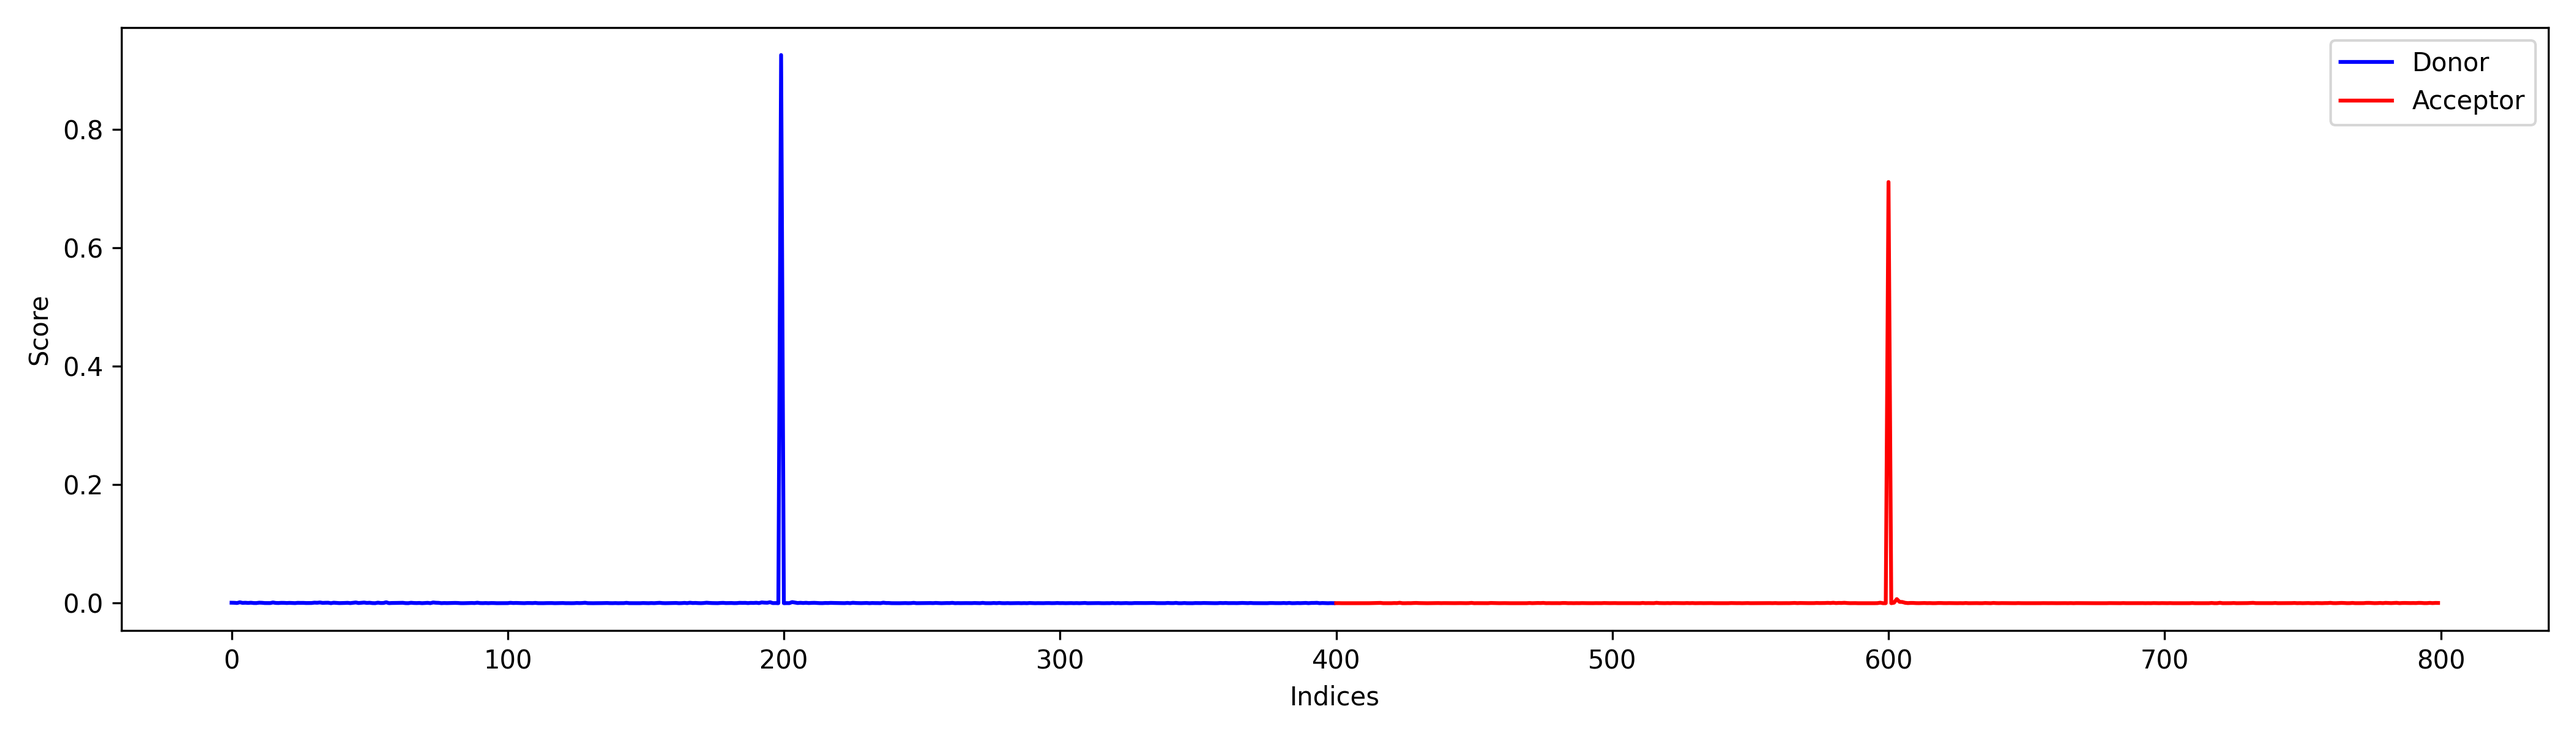
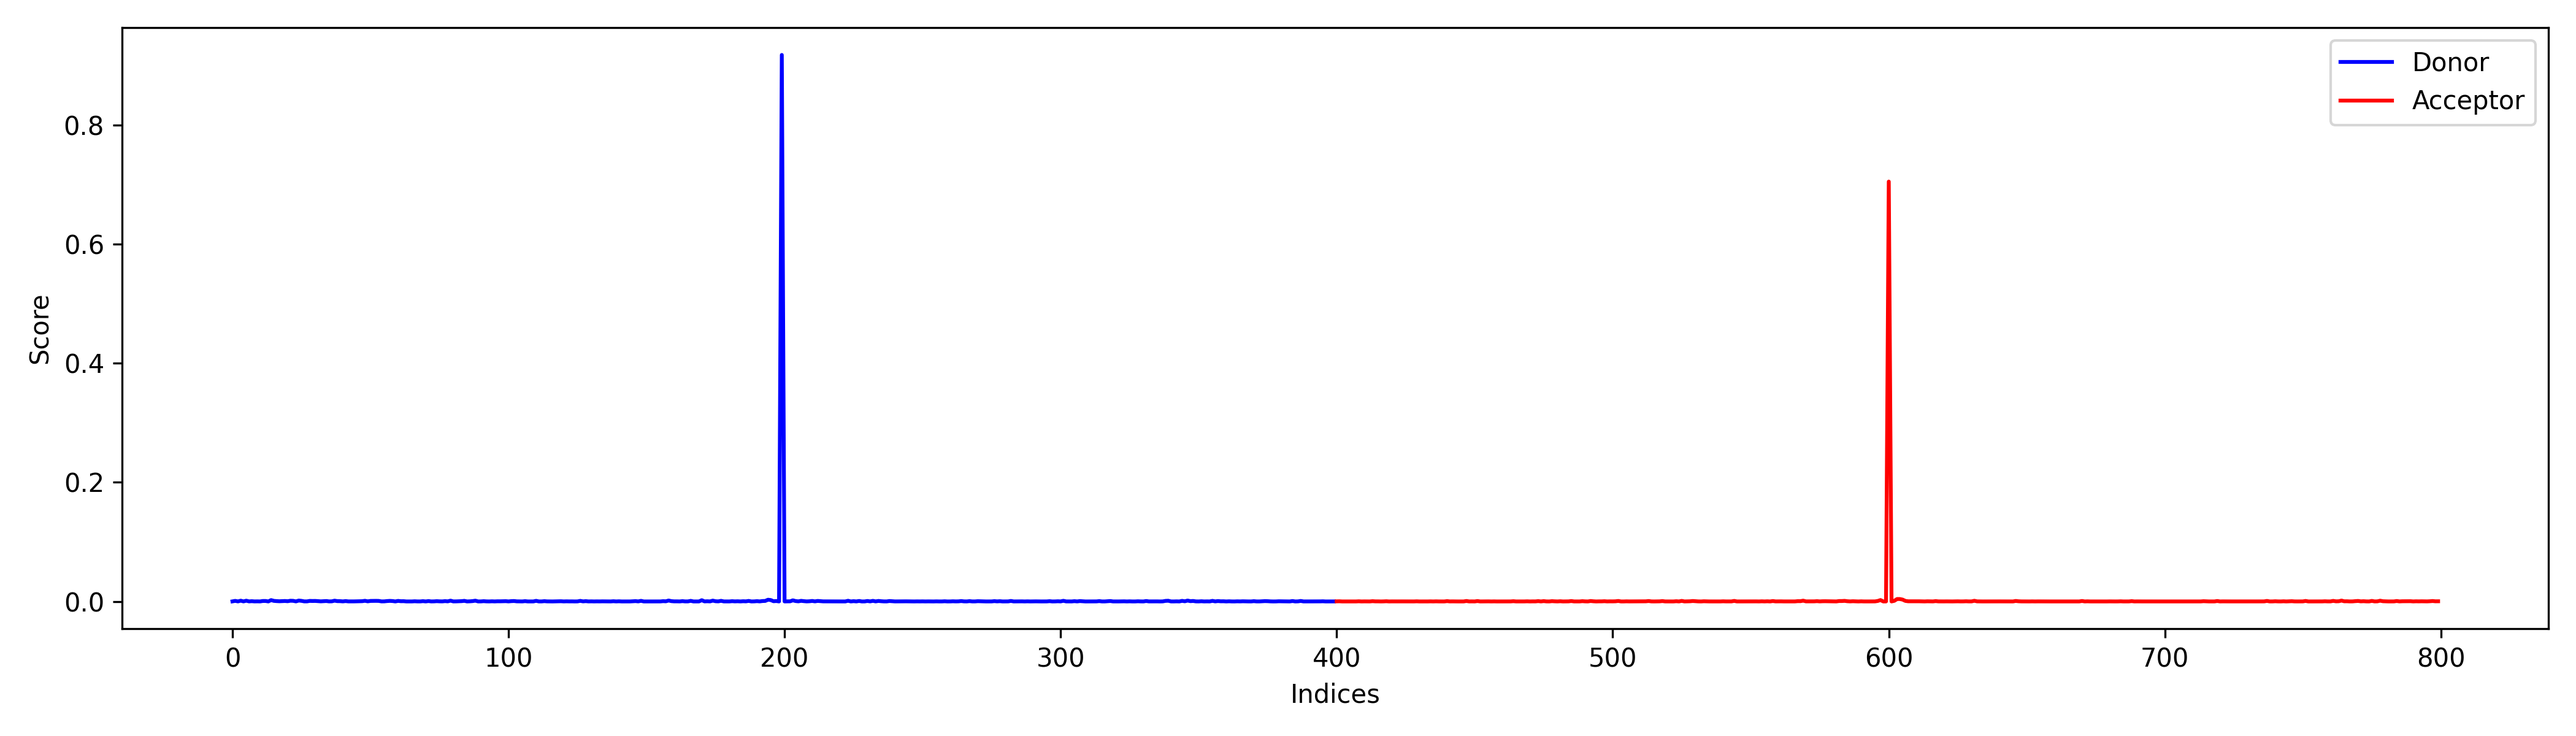
Update scriptes in src_tools_evaluation/Step_7_SpliceAI_prediction_all_seq.py

diff --git a/src_tools_evaluation/Step_8_SpliceAI_score_loader.py b/src_tools_evaluation/Step_8_SpliceAI_score_loader.py
@@ -5,44 +5,23 @@ import os
 # from Step_7_util import *
 from sklearn.metrics import accuracy_score, confusion_matrix, roc_auc_score, roc_curve, precision_recall_curve, average_precision_score
 
-
-
 def print_topl_statistics(y_true, y_pred):
     # Prints the following information: top-kL statistics for k=0.5,1,2,4,
     # auprc, thresholds for k=0.5,1,2,4, number of true splice sites.
-    # print ("y_true: ", y_true.shape)
-    # print ("y_pred: ", y_pred.shape)
-
     idx_true = np.nonzero(y_true == 1)[0]
-    # print(("idx_true: ", idx_true))
     argsorted_y_pred = np.argsort(y_pred)
-    # print(("argsorted_y_pred: ", argsorted_y_pred))
-    # print(("argsorted_y_pred.shape: ", argsorted_y_pred.shape))
     sorted_y_pred = np.sort(y_pred)
-    # print(("sorted_y_pred: ", sorted_y_pred))
-    # print(("sorted_y_pred.shape: ", sorted_y_pred.shape))
-
     topkl_accuracy = []
     threshold = []
 
     for top_length in [0.5, 1, 2, 4, 10]:
 
         idx_pred = argsorted_y_pred[-int(top_length*len(idx_true)):]
-        # print(("idx_pred: ", idx_pred))
-        
-        # print(("np.size(np.intersect1d(idx_true, idx_pred)): ", np.size(np.intersect1d(idx_true, idx_pred))))
-        # print(("float(min(len(idx_pred), len(idx_true))): ", float(min(len(idx_pred), len(idx_true)))))
         topkl_accuracy += [np.size(np.intersect1d(idx_true, idx_pred)) \
                   / float(min(len(idx_pred), len(idx_true)))]
         threshold += [sorted_y_pred[-int(top_length*len(idx_true))]] 
 
     auprc = average_precision_score(y_true, y_pred)
-
-    # print((("%.4f\t\033[91m%.4f\t\033[0m%.4f\t%.4f\t\033%.4f\t\033[94m%.4f\t\033[0m"
-    #       + "\t%d") % (
-    #       topkl_accuracy[0], topkl_accuracy[1], topkl_accuracy[2],
-    #       topkl_accuracy[3], topkl_accuracy[4], auprc,  len(idx_true))))
-
     print((("\n%.4f\t\033[91m%.4f\t\033[0m%.4f\t%.4f\t\033%.4f\t\033[94m%.4f\t\033[0m"
           + "%.4f\t%.4f\t%.4f\t%.4f\t%d\n\n") % (
           topkl_accuracy[0], topkl_accuracy[1], topkl_accuracy[2],
@@ -53,150 +32,108 @@ def print_topl_statistics(y_true, y_pred):
 
 
 def main(argv):
-
-
-    os.makedirs("score_plts", exist_ok=True)
+    os.makedirs("spliceai_result/score_plts", exist_ok=True)
     TYPE = argv[1]
-    output_file = argv[2]
-    # output_files = "outlier_test"
-    # paths = ('./models/spliceai{}.h5'.format(x) for x in range(1, 2))
-    # models = [load_model(resource_filename('spliceai', x)) for x in paths]
     path = './models/spliceai1.h5'
     print(">> path\t\t: ", path)
-    print(">> output_file\t: ", output_file)
+    output_files = ["pos_MANE", "pos_ALTS", "neg_1", "neg_random"]
+    for output_file in output_files:
+        print(">> output_file\t: ", output_file)
+        label = '.'
+        if output_file == "pos" or output_file == "pos_MANE" or output_file == "pos_ALTS":
+            label = '+'
+        if output_file == "neg_1" or output_file == "neg_random":
+            label = '-'
 
-    label = '.'
-    if output_file == "pos" or output_file == "pos_MANE" or output_file == "pos_ALTS":
-        label = '+'
+        da_faf = "./dataset/"+output_file+"/spliceai/spliceai."+TYPE+".juncs.seq.fa"
 
-    if output_file == "neg_1" or output_file == "neg_random":
-        label = '-'
+        d_score_tsv_f = "./spliceai_result/"+output_file+"/spliceai_all_seq.score.d."+TYPE+"."+output_file+".tsv"
+        a_score_tsv_f = "./spliceai_result/"+output_file+"/spliceai_all_seq.score.a."+TYPE+"."+output_file+".tsv"
+        n_score_tsv_f = "./spliceai_result/"+output_file+"/spliceai_all_seq.score.n."+TYPE+"."+output_file+".tsv"
+        name_tsv_f = "./spliceai_result/"+output_file+"/spliceai_all_seq.name."+TYPE+"."+output_file+".tsv"
 
-    # print(">> label\t\t: ", label)
-    da_faf = "./dataset/"+output_file+"/spliceai/spliceai."+TYPE+".juncs.seq.fa"
+        d_score_fw = open(d_score_tsv_f, "r") 
+        a_score_fw = open(a_score_tsv_f, "r") 
+        n_score_fw = open(n_score_tsv_f, "r") 
+        name_fw = open(name_tsv_f, "r") 
 
+        donor_p = np.zeros(400)
+        acceptor_p = np.zeros(400)
 
-    d_score_tsv_f = "./spliceai_result/"+output_file+"/spliceai_all_seq.score.d."+TYPE+"."+output_file+".tsv"
-    a_score_tsv_f = "./spliceai_result/"+output_file+"/spliceai_all_seq.score.a."+TYPE+"."+output_file+".tsv"
-    n_score_tsv_f = "./spliceai_result/"+output_file+"/spliceai_all_seq.score.n."+TYPE+"."+output_file+".tsv"
+        donor_concat = []
+        acceptor_concat = []
+        donor_l_concat = []
+        acceptor_l_concat = []
+        
+        lines = d_score_fw.read().splitlines()    
+        for line in lines:
+            line = line.split(" ")
+            donor_ps = np.array(line[0:400]).astype(float)
+            donor_p = donor_p + donor_ps
+            donor_ls = np.zeros(400)
+            donor_ls[199] = 1
+            if len(donor_concat) == 0:
+                donor_concat = donor_ps
+                donor_l_concat = donor_ls
+            else:
+                donor_concat =  np.concatenate((donor_concat, donor_ps), axis=0)
+                donor_l_concat = np.concatenate((donor_l_concat, donor_ls))
 
-    name_tsv_f = "./spliceai_result/"+output_file+"/spliceai_all_seq.name."+TYPE+"."+output_file+".tsv"
+        lines = a_score_fw.read().splitlines()
+        for line in lines:
+            # scores = np.loadtxt(line)
+            line = line.split(" ")
+            acceptor_ps = np.array(line[len(line)-400:len(line)]).astype(float)
+            acceptor_p = acceptor_p + acceptor_ps
+            acceptor_ls = np.zeros(400)
+            acceptor_ls[200] = 1
 
-    d_score_fw = open(d_score_tsv_f, "r") 
-    a_score_fw = open(a_score_tsv_f, "r") 
-    n_score_fw = open(n_score_tsv_f, "r") 
-
-    name_fw = open(name_tsv_f, "r") 
-
-
-    # scores = np.loadtxt(score_tsv_f)
-
-
-    donor_p = np.zeros(400)
-    acceptor_p = np.zeros(400)
-
-    donor_concat = []
-    acceptor_concat = []
-    donor_l_concat = []
-    acceptor_l_concat = []
-    
-    lines = d_score_fw.read().splitlines()    
-    for line in lines:
-        # scores = np.loadtxt(line)
-        line = line.split(" ")
-        donor_ps = np.array(line[0:400]).astype(float)
-        donor_p = donor_p + donor_ps
-        donor_ls = np.zeros(400)
-        donor_ls[199] = 1
-
-        if len(donor_concat) == 0:
-            donor_concat = donor_ps
-            donor_l_concat = donor_ls
-        else:
-            donor_concat =  np.concatenate((donor_concat, donor_ps), axis=0)
-            donor_l_concat = np.concatenate((donor_l_concat, donor_ls))
-
-
-        # print(len(donor_ps))
-        # print(len(acceptor_ps))
-
-    lines = a_score_fw.read().splitlines()
-    for line in lines:
-        # scores = np.loadtxt(line)
-        line = line.split(" ")
-        acceptor_ps = np.array(line[len(line)-400:len(line)]).astype(float)
-        acceptor_p = acceptor_p + acceptor_ps
-        acceptor_ls = np.zeros(400)
-        acceptor_ls[200] = 1
-
-        if len(acceptor_concat) == 0:
-            acceptor_concat = acceptor_ps
-            acceptor_l_concat = acceptor_ls
-        else:
-            acceptor_concat =  np.concatenate((acceptor_concat, acceptor_ps), axis=0)
-            acceptor_l_concat = np.concatenate((acceptor_l_concat, acceptor_ls))
+            if len(acceptor_concat) == 0:
+                acceptor_concat = acceptor_ps
+                acceptor_l_concat = acceptor_ls
+            else:
+                acceptor_concat =  np.concatenate((acceptor_concat, acceptor_ps), axis=0)
+                acceptor_l_concat = np.concatenate((acceptor_l_concat, acceptor_ls))
 
 
-    print(donor_concat.shape)
-    print(acceptor_concat.shape)
-    print(donor_l_concat.shape)
-    print(acceptor_l_concat.shape)
-    
+        print(donor_concat.shape)
+        print(acceptor_concat.shape)
+        print(donor_l_concat.shape)
+        print(acceptor_l_concat.shape)
+        
 
-    print(len(donor_p))
-    print(len(acceptor_p))
-    avg_donor_p = donor_p/len(lines)
-    avg_acceptor_p = acceptor_p/len(lines)
-    # scores = np.concatenate((avg_donor_p, avg_acceptor_p))
+        print(len(donor_p))
+        print(len(acceptor_p))
+        avg_donor_p = donor_p/len(lines)
+        avg_acceptor_p = acceptor_p/len(lines)
 
-    # avg_donor_p = np.pad(avg_donor_p,(0, 400), 'constant')
-    # avg_acceptor_p = np.pad(avg_acceptor_p,(400, 0), 'constant')
+        scores = avg_donor_p, avg_acceptor_p
 
-    scores = avg_donor_p, avg_acceptor_p
+        my_dpi = 300
+        plt.figure(figsize=(4200/my_dpi, 1200/my_dpi), dpi=my_dpi)
+        donor = plt.plot(list(range(400)), avg_donor_p, color="blue", label="Donor")
+        acceptor = plt.plot(list(range(400, 800)), avg_acceptor_p, color="red", label="Acceptor")
+        plt.xlabel('Indices')
+        plt.ylabel('Score')
+        plt.legend()
+        plt.tight_layout()
+        plt.savefig("spliceai_result/score_plts/spliceai_" + TYPE + "_" + output_file + ".png", dpi=my_dpi)
 
-    my_dpi = 300
-    plt.figure(figsize=(4200/my_dpi, 1200/my_dpi), dpi=my_dpi)
-    donor = plt.plot(list(range(400)), avg_donor_p, color="blue", label="Donor")
-    acceptor = plt.plot(list(range(400, 800)), avg_acceptor_p, color="red", label="Acceptor")
-    plt.xlabel('Indices')
-    plt.ylabel('Score')
-    plt.legend()
-    plt.tight_layout()
-    plt.savefig("score_plts/spliceai_" + TYPE + "_" + output_file + ".png", dpi=my_dpi)
-    # plt.show()
+        print ("\n\033[1mDonor:\033[0m")
+        print_topl_statistics(donor_l_concat,
+        donor_concat)
 
+        print ("\n\033[1mAcceptor:\033[0m")
+        print_topl_statistics(acceptor_l_concat,
+        acceptor_concat)
 
-    # lines = a_score_fw.read().splitlines()
-    # for line in lines:
-    #     # scores = np.loadtxt(line)
-    #     line = line.split(" ")
-    #     print(len(line))
+        donor_concat = donor_concat[donor_concat<0.1]
+        acceptor_concat = acceptor_concat[acceptor_concat<0.1]
+        plt.show()
 
-    # lines = n_score_fw.read().splitlines()
-    # for line in lines:
-    #     # scores = np.loadtxt(line)
-    #     line = line.split(" ")
-    #     print(len(line))
-
-
-    print ("\n\033[1mDonor:\033[0m")
-    print_topl_statistics(donor_l_concat,
-    donor_concat)
-
-    print ("\n\033[1mAcceptor:\033[0m")
-    print_topl_statistics(acceptor_l_concat,
-    acceptor_concat)
-
-    donor_concat = donor_concat[donor_concat<0.1]
-    acceptor_concat = acceptor_concat[acceptor_concat<0.1]
-    
-    # plt.violinplot([donor_concat, acceptor_concat])
-    plt.show()
-
-    d_score_fw.close()
-    a_score_fw.close()
-    n_score_fw.close()
-
+        d_score_fw.close()
+        a_score_fw.close()
+        n_score_fw.close()
 
 
 if __name__ == "__main__":

diff --git a/src_tools_evaluation/Step_7_SpliceAI_prediction_all_seq.py b/src_tools_evaluation/Step_7_SpliceAI_prediction_all_seq.py
@@ -25,10 +25,10 @@ def seq_name(seq):
 
 def main(argv):
     BATCH_SIZE = int(argv[0])
-    BATCH_SIZE_BASE = 200
+    BATCH_SIZE_BASE = 1000
 
     TYPE = argv[1]
-    output_files = ["pos_MANE/", "pos_ALTS/", "neg_1/", "neg_random/"]
+    output_files = ["pos_MANE", "pos_ALTS", "neg_1", "neg_random"]
 
     for output_file in output_files:
         path = './models/spliceai1.h5'
@@ -83,15 +83,12 @@ def main(argv):
             if pidx % 2 == 0:
                 chr, start, end, strand = all_lines[pidx].split(";")
                 chr = chr[1:]
-
                 name_fw.write(' '.join([chr, start, end, strand])+"\n")
 
                 pass
             elif pidx % 2 == 1:
                 seq = all_lines[pidx]
-
                 X, Y = create_datapoints(seq, label)
-                
                 X = X[None, :]
                 Y = np.array(Y)
                 X = tf.convert_to_tensor(X, dtype=tf.float32)

diff --git a/src_tools_evaluation/Step_s8_check_spliceAI_pickle_loader.py b/src_tools_evaluation/Step_s8_check_spliceAI_pickle_loader.py
@@ -6,10 +6,6 @@ import os
 from sklearn.metrics import accuracy_score, confusion_matrix, roc_auc_score, roc_curve, precision_recall_curve
 
 def main():
-
-    # os.makedirs("./IMG/spliceai/", exist_ok=True)
-    # os.makedirs("./IMG/splam/", exist_ok=True)
-    
     d_pred_neg = []
     d_label_neg = []
     a_pred_neg = []
@@ -37,8 +33,6 @@ def main():
     splam_j_pred_prob = []
     splam_j_label_prob = []
 
-
-    # SUBSET = 9900
     TARGETS = ["pos_refseq_protein_alts", "neg_1"]
     # , "neg_random"]
     # TARGETS = ["pos", "neg_1"]
